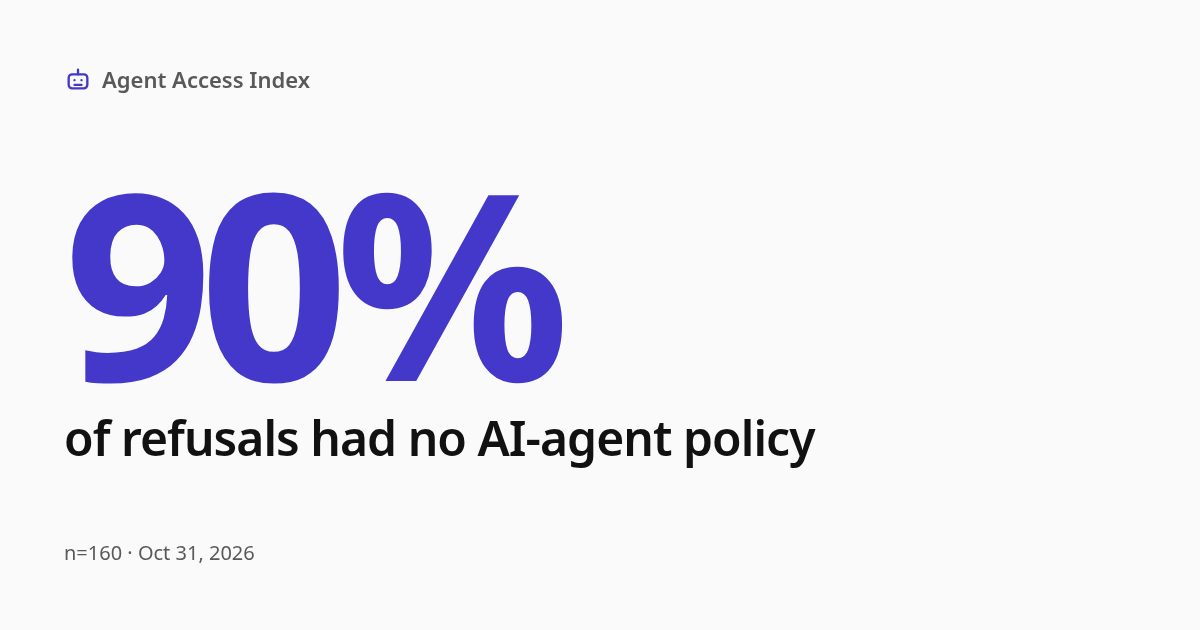
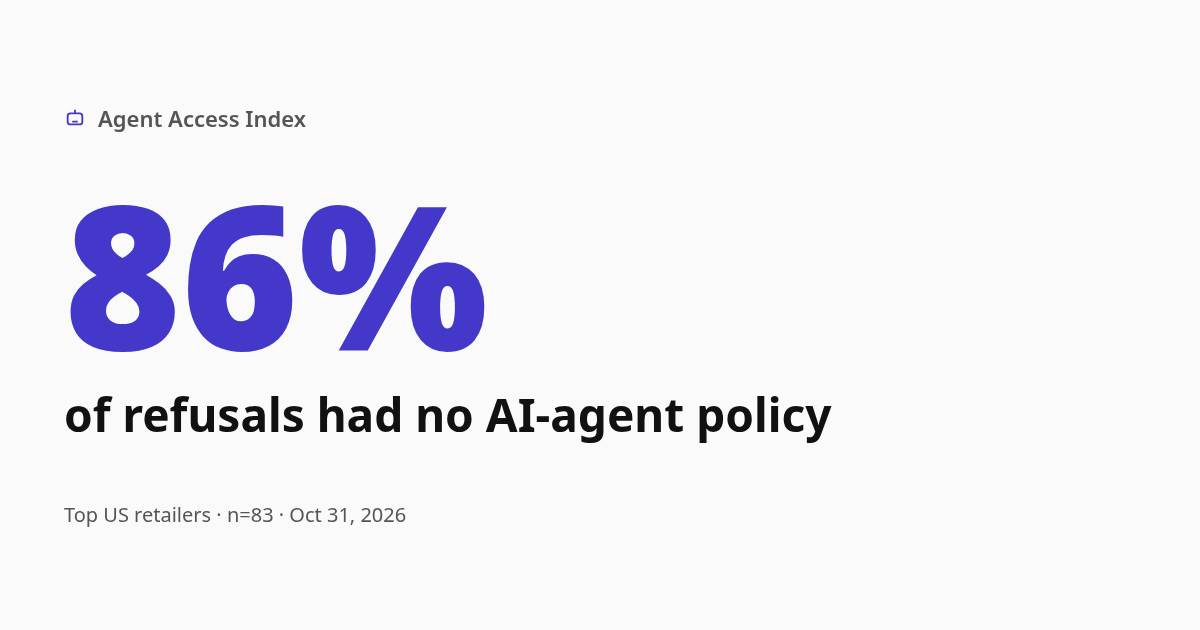
Switch to NRF Top 100 Retailers 2026 frame (n=83)

diff --git a/index.html b/index.html
@@ -1,16 +1,16 @@
 <!doctype html><html lang="en"><head><meta charset="utf-8"><meta name="viewport" content="width=device-width,initial-scale=1">
-<title>Agent Access Index: most sites that refuse AI agents publish no policy on them</title>
-<meta name="description" content="53 of 59 refusals (90%) came from sites with no AI-agent policy at checked URLs. 160 sites, Oct 31, 2026.">
+<title>Agent Access Index: most top US retailers that refuse AI agents publish no policy on them</title>
+<meta name="description" content="25 of 29 refusals (86%) came from top US retailers with no AI-agent policy at checked URLs. NRF Top 100 Retailers 2026, 83 sites, Oct 31, 2026.">
 <meta property="og:type" content="website">
-<meta property="og:title" content="Most sites that refuse AI agents publish no policy on them">
-<meta property="og:description" content="53 of 59 refusals (90%) came from sites with no AI-agent policy at checked URLs. 160 sites, Oct 31, 2026.">
+<meta property="og:title" content="Most top US retailers that refuse AI agents publish no policy on them">
+<meta property="og:description" content="25 of 29 refusals (86%) came from top US retailers with no AI-agent policy at checked URLs. NRF Top 100 Retailers 2026, 83 sites, Oct 31, 2026.">
 <meta property="og:url" content="https://aidvalor.github.io/agent-access-index-site/">
 <meta property="og:image" content="https://aidvalor.github.io/agent-access-index-site/og.png">
 <meta property="og:image:width" content="1200"><meta property="og:image:height" content="630">
-<meta property="og:image:alt" content="90% of refusals had no AI-agent policy. n=160, Oct 31, 2026.">
+<meta property="og:image:alt" content="86% of refusals had no AI-agent policy. n=83 top US retailers, Oct 31, 2026.">
 <meta name="twitter:card" content="summary_large_image">
-<meta name="twitter:title" content="Most sites that refuse AI agents publish no policy on them">
-<meta name="twitter:description" content="53 of 59 refusals (90%) came from sites with no AI-agent policy at checked URLs. 160 sites, Oct 31, 2026.">
+<meta name="twitter:title" content="Most top US retailers that refuse AI agents publish no policy on them">
+<meta name="twitter:description" content="25 of 29 refusals (86%) came from top US retailers with no AI-agent policy at checked URLs. NRF Top 100 Retailers 2026, 83 sites, Oct 31, 2026.">
 <meta name="twitter:image" content="https://aidvalor.github.io/agent-access-index-site/og.png">
 <style>
 :root{--bg:#fafafa;--card:#fff;--ink:#111;--mut:#595959;--line:#e5e5e5;--acc:#4338ca;
@@ -68,7 +68,7 @@ footer{margin-top:40px;font-size:13px;color:var(--mut);display:flex;justify-cont
 @media(max-width:680px){.fbtn{display:inline-flex;margin-bottom:8px}.fbtn[aria-expanded=true]{background:var(--ink);color:#fff}#fv{display:none}#fv.open{display:flex}}
 @media(prefers-reduced-motion:reduce){*{transition:none!important}}
 @media(max-width:680px){.dgrid{grid-template-columns:1fr}}
-</style></head><body>
+.badge{display:inline-block;margin-left:6px;padding:1px 6px;border:1px solid var(--line);border-radius:999px;font-size:11px;font-weight:500;color:var(--mut);vertical-align:1px}</style></head><body>
 <svg width="0" height="0" style="position:absolute" aria-hidden="true"><defs>
 <symbol id="i-bot" viewBox="0 0 24 24"><rect x="4" y="8" width="16" height="12" rx="3"/><path d="M12 4v4M9 13h.01M15 13h.01M9 17h6"/></symbol>
 <symbol id="i-cal" viewBox="0 0 24 24"><rect x="3" y="5" width="18" height="16" rx="2"/><path d="M16 3v4M8 3v4M3 10h18"/></symbol>
@@ -90,7 +90,7 @@ footer{margin-top:40px;font-size:13px;color:var(--mut);display:flex;justify-cont
 <span class="pill" id="upd"><svg class="ico" aria-hidden="true"><use href="#i-cal"/></svg><span></span></span></header>
 
 <section class="card hero" aria-labelledby="h1">
-<h1 id="h1">Most sites that refuse AI agents publish no policy on them</h1>
+<h1 id="h1">Most top US retailers that refuse AI agents publish no policy on them</h1>
 <div class="sub" id="hsub"></div>
 <p class="def mut">Refused: the site returned an access error or challenge page to a labeled bot; cause not established. Policy: published rules for AI agents.</p>
 </section>
@@ -99,14 +99,14 @@ footer{margin-top:40px;font-size:13px;color:var(--mut);display:flex;justify-cont
 <div class="card spark"><div><div style="font-weight:600">Trend</div><div class="mut" style="font-size:12px">Daily series begins Oct 30, 2026.</div></div></div>
 
 <h2 id="cat"><svg class="ico" aria-hidden="true"><use href="#i-chart"/></svg><span id="ctitle">Share of refusals without an AI-agent policy, by category</span></h2>
-<p class="sub" id="csub">160 sites, Oct 31, 2026. Categories with fewer than 5 refusals not shown.</p>
+<p class="sub" id="csub">83 sites from the NRF Top 100 Retailers 2026, Oct 31, 2026. Categories with fewer than 5 refusals count in totals only. Small sample: n&lt;15, directional only.</p>
 <section class="card" aria-labelledby="cat">
 <div class="chips" id="fs" role="group" aria-label="Filter by status"><span class="lbl">Status</span></div>
 <button class="chip fbtn" id="fbtn" aria-expanded="false" aria-controls="fv">Filter</button>
 <div class="chips" id="fv" role="group" aria-label="Filter by vertical"><span class="lbl">Vertical</span></div>
 <div class="chips"><button class="chip" id="cmp" aria-pressed="false">Compare to all</button></div>
 <div id="chart" role="table" aria-label="Share of refusals without an AI-agent policy, by category"></div>
-<p class="src" id="srcline">Source: Agent Access Index, logged-out daily checks of 160 commerce sites, Oct 31, 2026.</p>
+<p class="src" id="srcline">Source: Agent Access Index, logged-out checks of 83 sites from the <a href="https://nrf.com/research-insights/top-retailers/top-100-retailers/top-100-retailers-2026-list" rel="noopener">NRF Top 100 Retailers 2026</a>, Oct 31, 2026.</p>
 <p class="mut" style="font-size:12px;margin:12px 0 0">Bars: share of all sites by result. Right column: share of refusals with no policy. Select a category for detail.</p>
 </section>
 
@@ -114,7 +114,7 @@ footer{margin-top:40px;font-size:13px;color:var(--mut);display:flex;justify-cont
 <section class="card lock" aria-labelledby="lk">
 <table aria-hidden="true"><thead><tr><th>Site</th><th>Category</th><th>Observed</th><th>HTTP</th></tr></thead><tbody id="fake"></tbody></table>
 <div class="over"><svg class="ico" aria-hidden="true"><use href="#i-lock"/></svg>
-<div><b>Full site-level report</b><br><span class="mut">160 sites · daily refresh · status history</span></div>
+<div><b>Full site-level report</b><br><span class="mut">83 sites · daily refresh · status history</span></div>
 <a class="btn" id="cta" href="https://docs.google.com/forms/d/e/1FAIpQLScYukIjtdoUHKAbPR_PF6Rcn-_-QXFUb2s7fFT-fSTxp5CREQ/viewform?usp=header" rel="noopener">Request full site-level report<svg class="ico" aria-hidden="true"><use href="#i-arrow"/></svg></a>
 <span class="mut" style="font-size:12px" id="ctanote">Opens a Google Form (company, role, use case). This page loads no analytics, cookies or third-party scripts.</span></div>
 </section>
@@ -125,7 +125,7 @@ footer{margin-top:40px;font-size:13px;color:var(--mut);display:flex;justify-cont
 <li><b>Allowed or OK</b>: AI user agents named and allowed, or no policy and the fetch succeeded.</li>
 <li><b>Refused, no policy</b>: no published AI-agent rules, and the site returned an access error or challenge page. Cause not established.</li>
 <li><b>Error</b>: timeout or network error, recorded as an error, not a refusal.</li></ul></details>
-<details id="d-meth"><summary><svg class="ico" aria-hidden="true"><use href="#i-flask"/></svg>Method</summary><p>A logged-out daily check of public policy files (robots.txt, llms.txt, /.well-known) and the homepage response for 160 hand-picked retail and commerce sites, aggregated by category. n=160, Oct 31, 2026. Dated observations, not statements of intent.</p></details>
+<details id="d-meth"><summary><svg class="ico" aria-hidden="true"><use href="#i-flask"/></svg>Method</summary><p>Sites = <a href="https://nrf.com/research-insights/top-retailers/top-100-retailers/top-100-retailers-2026-list" rel="noopener">NRF Top 100 Retailers 2026</a> (ranked by US retail sales), grouped by primary category; niches under 10 merged; one company excluded. A logged-out check of public policy files (robots.txt, llms.txt, /.well-known) and the homepage response, aggregated by category. n=83, Oct 31, 2026. Dated observations, not statements of intent.</p></details>
 <details id="d-disc"><summary><svg class="ico" aria-hidden="true"><use href="#i-scale"/></svg>Disclaimer</summary><p>Independent, non-commercial research. Not affiliated with any company studied or any current or former employer of the author. No logins, CAPTCHAs, rate limits or refusals bypassed. robots.txt is a voluntary standard (RFC 9309), not a contract. Not legal advice. Brand names identify sites only. Corrections or opt-out: use the request form above.</p></details>
 
 <footer><span>Built by <a href="https://www.linkedin.com/in/vladyslav-ilchenko/" rel="author">Vladyslav Ilchenko <svg class="ico" aria-hidden="true"><use href="#i-in"/></svg></a></span>
@@ -142,7 +142,7 @@ const G=[["block","Refused, no policy","var(--c-block)",b=>b.no_policy_blocked||
 ["mix","Refused or error (n<5)","var(--c-err)",b=>b.no_policy_blocked_or_error||0,"hatch"]];
 const d=new Date(D.run_date+"T12:00:00Z");
 $("upd").lastElementChild.textContent=`Updated ${d.toLocaleDateString("en-US",{month:"short",day:"numeric",year:"numeric",timeZone:"UTC"})} · daily`;
-$("hsub").innerHTML=`<b>${T.blocked_no_policy} of ${T.blocked}</b> refusals came from sites with no AI-agent rules at the URLs checked. Access is being set by bot defenses, not stated policy.`;
+$("hsub").innerHTML=`<b>${T.blocked_no_policy} of ${T.blocked}</b> refusals came from top US retailers with no AI-agent rules at the URLs checked. Access is being set by bot defenses, not stated policy.`;
 const kp=[["i-shield","Refused",pc(T.blocked,T.n),`${T.blocked} of ${T.n} sites`],
 ["i-globe","Refused, no policy",pc(T.blocked_no_policy,T.blocked),`${T.blocked_no_policy} of ${T.blocked} refused`],
 ["i-file","Serve llms.txt",pc(T.llms_txt,T.n),`${T.llms_txt} of ${T.n} sites`],
@@ -172,7 +172,7 @@ return `<div><p class="so">${sowhat(c)}</p><div class="dgrid">
 <div><h3>robots.txt</h3><ul><li>Disallow for agents (or *): ${b.disallow_agents}</li><li>Disallow for training crawlers only: ${b.disallow_training_only}</li><li>Named agents allowed: ${b.named_allowed}</li></ul></div>
 <div><h3>Agent signals</h3><ul><li>llms.txt: ${P(c.llms_txt,c.n)}${cmp(c.llms_txt,c.n,T.llms_txt)}</li><li>/.well-known/ucp: ${P(c.ucp,c.n)}${cmp(c.ucp,c.n,T.ucp)}</li></ul></div></div></div>`}
 function row(c,id,ref){const parts=used.map(g=>[g,g[3](c.buckets)]).filter(x=>x[1]),open=st.open===c.category&&!ref;
-const name=ref?`<span role="rowheader"><b>All sites</b> <span class="mut">(${c.n})</span></span>`:`<span role="rowheader"><button class="rowbtn" aria-expanded="${open}" aria-controls="dr${id}" data-c="${esc(c.category)}"><svg class="ico chev" aria-hidden="true"><use href="#i-chev"/></svg>${esc(c.category)} <span class="mut">(${c.n})</span></button></span>`;
+const name=ref?`<span role="rowheader"><b>All sites</b> <span class="mut">(${c.n})</span></span>`:`<span role="rowheader"><button class="rowbtn" aria-expanded="${open}" aria-controls="dr${id}" data-c="${esc(c.category)}"><svg class="ico chev" aria-hidden="true"><use href="#i-chev"/></svg>${esc(c.category)} <span class="mut">(${c.n})</span>${c.small_sample?'<span class="badge" title="n under 15: small sample, directional only">small sample</span>':""}</button></span>`;
 return `<div class="row ${ref?"ref":""}" role="row">${name}<div class="bar" role="cell">${parts.map(([g,v])=>seg(g,v,c,id)).join("")}</div>${share(c)}${ref?"":`<div class="drawer ${open?"open":""}" id="dr${id}" role="region" aria-label="${esc(c.category)} breakdown" ${open?"":"hidden"}>${drawer(c)}</div>`}</div>`}
 function render(){chips();const cs=SHOWN.filter(c=>!st.v.length||st.v.includes(c.category));
 const tot={...T,category:"All",blocked_suppressed:false};

diff --git a/data.js b/data.js
@@ -1,1 +1,1 @@
-window.AAI={"run_date":"2026-10-31","totals":{"category":"all","n":160,"buckets":{"disallow_agents":3,"named_allowed":18,"no_policy_ok":65,"no_policy_blocked":53,"no_policy_error":14,"disallow_training_only":7},"blocked":59,"blocked_no_policy":53,"blocked_no_policy_pct":90,"llms_txt":29,"ucp":16,"blocked_suppressed":false},"categories":[{"category":"marketplace","n":14,"buckets":{"disallow_agents":2,"named_allowed":1,"no_policy_ok":5,"no_policy_blocked":5,"no_policy_error":0,"disallow_training_only":1},"blocked":5,"blocked_no_policy":5,"blocked_no_policy_pct":100,"llms_txt":2,"ucp":0,"blocked_suppressed":false},{"category":"home","n":13,"buckets":{"disallow_agents":0,"named_allowed":0,"no_policy_ok":6,"no_policy_blocked":5,"no_policy_error":1,"disallow_training_only":1},"blocked":5,"blocked_no_policy":5,"blocked_no_policy_pct":100,"llms_txt":4,"ucp":4,"blocked_suppressed":false},{"category":"fashion/apparel","n":35,"buckets":{"disallow_agents":0,"named_allowed":5,"no_policy_ok":13,"no_policy_blocked":12,"no_policy_error":4,"disallow_training_only":1},"blocked":13,"blocked_no_policy":12,"blocked_no_policy_pct":92,"llms_txt":7,"ucp":5,"blocked_suppressed":false},{"category":"big-box retail","n":27,"buckets":{"disallow_agents":0,"named_allowed":2,"no_policy_ok":13,"no_policy_blocked":10,"no_policy_error":2,"disallow_training_only":0},"blocked":11,"blocked_no_policy":10,"blocked_no_policy_pct":91,"llms_txt":3,"ucp":2,"blocked_suppressed":false},{"category":"b2b industrial/supply","n":32,"buckets":{"disallow_agents":0,"named_allowed":2,"no_policy_ok":12,"no_policy_blocked":11,"no_policy_error":4,"disallow_training_only":3},"blocked":13,"blocked_no_policy":11,"blocked_no_policy_pct":85,"llms_txt":4,"ucp":0,"blocked_suppressed":false},{"category":"travel","n":8,"buckets":{"disallow_agents":0,"named_allowed":1,"no_policy_ok":2,"no_policy_blocked":4,"no_policy_error":1,"disallow_training_only":0},"blocked":5,"blocked_no_policy":4,"blocked_no_policy_pct":80,"llms_txt":1,"ucp":0,"blocked_suppressed":false}]};
+window.AAI={"run_date":"2026-10-31","frame":"NRF Top 100 Retailers 2026","totals":{"category":"all","n":83,"buckets":{"disallow_agents":2,"named_allowed":7,"no_policy_ok":40,"no_policy_blocked":25,"no_policy_error":5,"disallow_training_only":4},"blocked":29,"blocked_no_policy":25,"blocked_no_policy_pct":86,"llms_txt":14,"ucp":4,"blocked_suppressed":false},"categories":[{"category":"apparel & department","n":15,"buckets":{"disallow_agents":0,"named_allowed":1,"no_policy_ok":7,"no_policy_blocked":5,"no_policy_error":2,"disallow_training_only":0},"blocked":5,"blocked_no_policy":5,"blocked_no_policy_pct":100,"llms_txt":4,"ucp":1,"blocked_suppressed":false,"small_sample":false},{"category":"specialty & electronics","n":15,"buckets":{"disallow_agents":0,"named_allowed":2,"no_policy_ok":7,"no_policy_blocked":4,"no_policy_error":1,"disallow_training_only":1},"blocked":5,"blocked_no_policy":4,"blocked_no_policy_pct":80,"llms_txt":4,"ucp":2,"blocked_suppressed":false,"small_sample":false},{"category":"home & hardware","n":13,"buckets":{"disallow_agents":0,"named_allowed":2,"no_policy_ok":5,"no_policy_blocked":4,"no_policy_error":1,"disallow_training_only":1},"blocked":5,"blocked_no_policy":4,"blocked_no_policy_pct":80,"llms_txt":0,"ucp":1,"blocked_suppressed":false,"small_sample":true},{"category":"auto, fuel & convenience","n":10,"buckets":{"disallow_agents":0,"named_allowed":0,"no_policy_ok":4,"no_policy_blocked":6,"no_policy_error":0,"disallow_training_only":0},"blocked":6,"blocked_no_policy":6,"blocked_no_policy_pct":100,"llms_txt":3,"ucp":0,"blocked_suppressed":false,"small_sample":true}]};

diff --git a/README.md b/README.md
@@ -1,8 +1,8 @@
 # Agent Access Index
 
-A category-level index of how retail and commerce sites treat AI agents. Logged-out daily check of public policy files, n=160, Oct 31, 2026.
+A category-level index of how retail and commerce sites treat AI agents. Logged-out daily check of public policy files, n=83 sites from the NRF Top 100 Retailers 2026, Oct 31, 2026.
 
-**Finding:** most sites that refuse AI agents publish no policy on them. 53 of 59 refusals (90%) came from sites with no AI-agent rules at the URLs checked.
+**Finding:** most top US retailers that refuse AI agents publish no policy on them. 25 of 29 refusals (86%) came from sites with no AI-agent rules at the URLs checked.
 
 Dashboard: https://aidvalor.github.io/agent-access-index-site/
 
